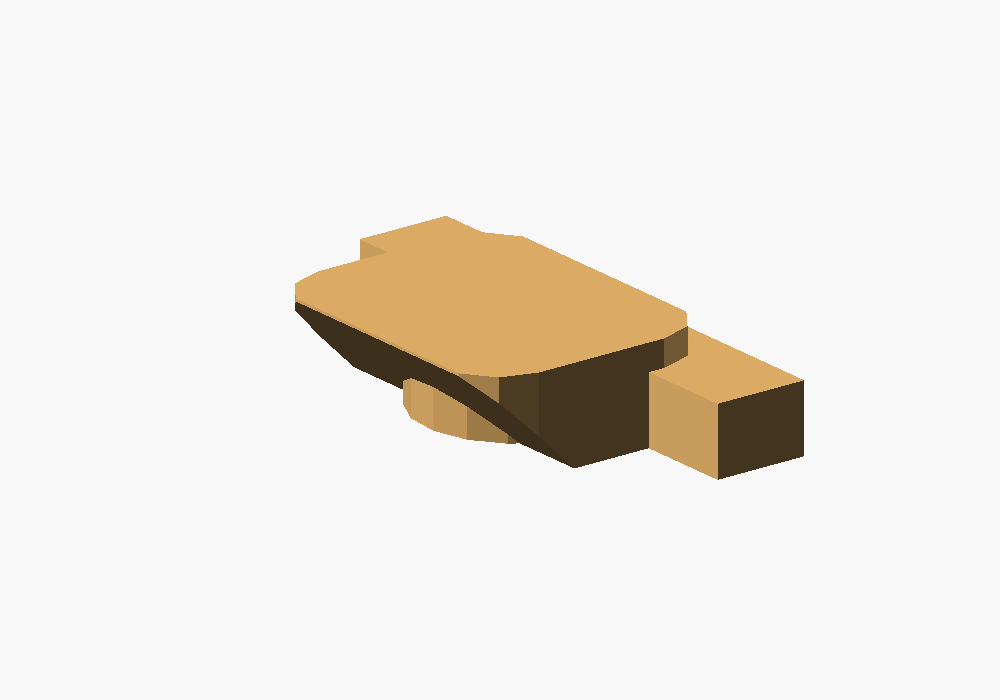
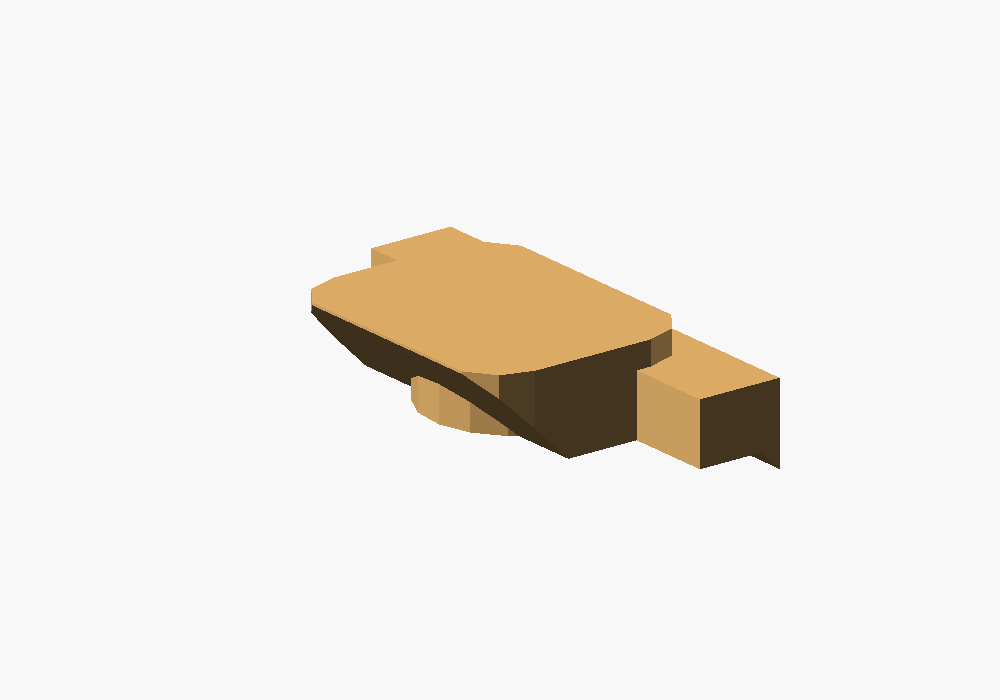
Add matching 45-degree lid seat to baby wipes box V2

Changed region(s): [[0.279, 0.3, 0.806, 0.69], [0.465, 0.33, 0.589, 0.39]]

diff --git a/projects/babywipesboxV2/readme.md b/projects/babywipesboxV2/readme.md
@@ -1,12 +1,25 @@
-# Baby wipes box V2 — 45° grip lip
+# Baby wipes box V2 — 45° grip lip and lid seat
 
 [babywipesboxV2.scad](babywipesboxV2.scad) is a standalone version of the
 [original baby wipes box](../babywipesbox/babywipesbox.scad), with a larger grip
-lip on the front of the small hinged lid, following the
-[18 October sketch](WhatsApp%20Image%202026-10-18%20at%2012.00.38.jpeg).
+lip on the front of the small hinged lid and a matching tapered seat around
+the dispensing opening, following the
+[updated 18 October sketch](WhatsApp%20Image%202026-10-18%20at%2013.07.20.jpeg).
+The [earlier grip sketch](archive/WhatsApp%20Image%202026-10-18%20at%2012.00.38.jpeg)
+is retained in `archive/`.
+
+The underside of the lid now has a solid tapered insert that fits into a
+**2 mm deep, 45° recess** in the cover. Both mating faces run around the entire
+capsule-shaped opening. The default horizontal clearance is **0.15 mm per
+side** at the same height (about 0.11 mm normal to a 45° face). The flat lid
+flange still has its separate 0.25 mm gap above the cover.
+
+This creates a longer, narrower path through the closure and guides the lid
+into position. Sealing performance depends on printed fit and surface finish;
+this rigid seat has no gasket and has not been tested for airtightness.
 
 The lip projects **9 mm** beyond the lid's capsule outline, is **5 mm** high
-from the lid underside, and has a **45° underside** for finger purchase.
+from the flat flange underside, and has a **45° underside** for finger purchase.
 Its width is 16 mm with rounded corners. The original circular magnet pad
 remains beneath the lip: the bevel blends into this reinforcement rather than
 cutting through the blind magnet pocket.
@@ -15,31 +28,46 @@ cutting through the blind magnet pocket.
 
 ![Close-up of the angled lip and retained magnet pad](lip_detail.png)
 
+![Section through the closed lid and its tapered seat](seat_section.png)
+
+The section shows the lid in gold and the cover in green, with the hinge on
+the left and the grip/latch magnet pockets on the right.
+
 ## Dimensions and compatibility
 
-The box, removable cover, dispensing opening, magnet positions, and filament
-hinge match the original SCAD model. With matching parameters, the V2 lid fits
-the original cover. The default box measures 200 × 120 × 85 mm; the opening
-is 106 × 48 mm. The main lid plate remains 3.6 mm thick; only the lip rises
-to 5 mm. No fourth printed part is needed.
+The container, outer cover dimensions, magnet positions, and filament hinge
+match the original SCAD model. **Print both the revised cover and lid** to use
+the tapered seat; an existing container with matching parameters can be reused.
+The default box measures 200 × 120 × 85 mm. The opening remains 106 × 48 mm
+at the top, narrowing to a 102 × 44 mm throat below the bevel. This keeps the
+latch magnet pocket enclosed by its original surrounding wall.
 
-The three new Customizer controls are:
+The main lid plate remains 3.6 mm thick, and the finger lip is 5 mm high above
+the flange underside. The insert extends 2.25 mm below that underside to
+account for the 2 mm seat depth and 0.25 mm flange gap. No fourth printed part
+is needed.
+
+The V2 Customizer controls are:
 
 | Parameter | Default | Meaning |
 | --- | --- | --- |
+| `seat_depth` | 2 | Cover recess depth; its radial taper has the same size, in mm |
+| `seat_clearance` | 0.15 | Horizontal gap per side between mating faces at the same Z, in mm |
 | `lip_projection` | 9 | Distance beyond the front edge of the lid, in mm |
-| `lip_height` | 5 | Total lip height from the lid underside, in mm |
+| `lip_height` | 5 | Lip height from the flat flange underside, excluding the insert, in mm |
 | `lip_width` | 16 | Grip width along X, in mm |
 
-The angle stays at 45° when these dimensions change. Assertions check that
-the lip extends beyond the magnet pad, fits on the cover, and clears the cover
-when the lid is fully open. All existing box, magnet, and hinge parameters
-remain available.
+Both angles stay at 45° when dimensions change. Reduce `seat_clearance` after
+a fit test for a closer seat, or increase it if the printed lid binds. Zero
+means nominal surface contact with no printing allowance. `seat_depth` must
+leave at least 1.2 mm of straight opening below the bevel. All existing box,
+magnet, and hinge parameters remain available.
 
 ## Export and assembly
 
 Open `babywipesboxV2.scad` in OpenSCAD. The default `part = "print_layout"`
-puts all three separate parts at Z=0. Render with **F6**, export as STL, then
+puts all three separate parts at Z=0, with the lid resting on the insert's
+flat bottom. Render with **F6**, export as STL, then
 split into objects and arrange the parts in your slicer.
 
 Use `box`, `boxcover`, or `boxcover_lid` to export a single part.
@@ -64,16 +92,21 @@ Assembly uses ten 6 × 2 mm magnets and an approximately 47 mm length of
 1.75 mm filament. The default hinge bore is **2.1 mm** (1.75 + 0.35 mm),
 matching the current original SCAD file. See the original
 [printing and assembly instructions](../babywipesbox/readme.md#print-and-assemble).
-The lip's underside slopes at 45° in the supplied print orientation; inspect
-the hinge overhangs and magnet-pocket bridges in the slicer.
+The lip and insert slope at 45° in the supplied print orientation. The lid's
+flange, latch pad, and hinge now sit 2.25 mm above the bed: inspect these
+overhangs and add local supports where needed. Keep support away from the
+sloped mating surface and filament bore; clean the seat and magnet-pocket
+bridges before checking the fit.
 
 ## Validation
 
 Rendered with OpenSCAD 2026.09.16. Each default part is a connected, closed
 mesh with consistent face orientation and its lowest point at Z=0. The
 combined layout contains exactly three separate closed components. The
-exported lid mesh confirms the 9 mm projection, 5 mm lip height, and 45°
-front underside. Solid intersection checks between lid and cover are empty
-at every 2° from 0° through 180°. Physical fit still needs a trial print.
+exported meshes confirm the 45° mating profiles and 0.15 mm horizontal gap.
+Solid intersection checks between lid and cover are empty at 0.25° steps
+from 0° to 10°, then 1° steps through 180°, using the default clearance.
+A 2.5 mm seat depth with 0.25 mm clearance also renders successfully.
+Physical fit and sealing performance still need a trial print.
 
 Licensed under the repository's [GPL license](../../LICENSE).
